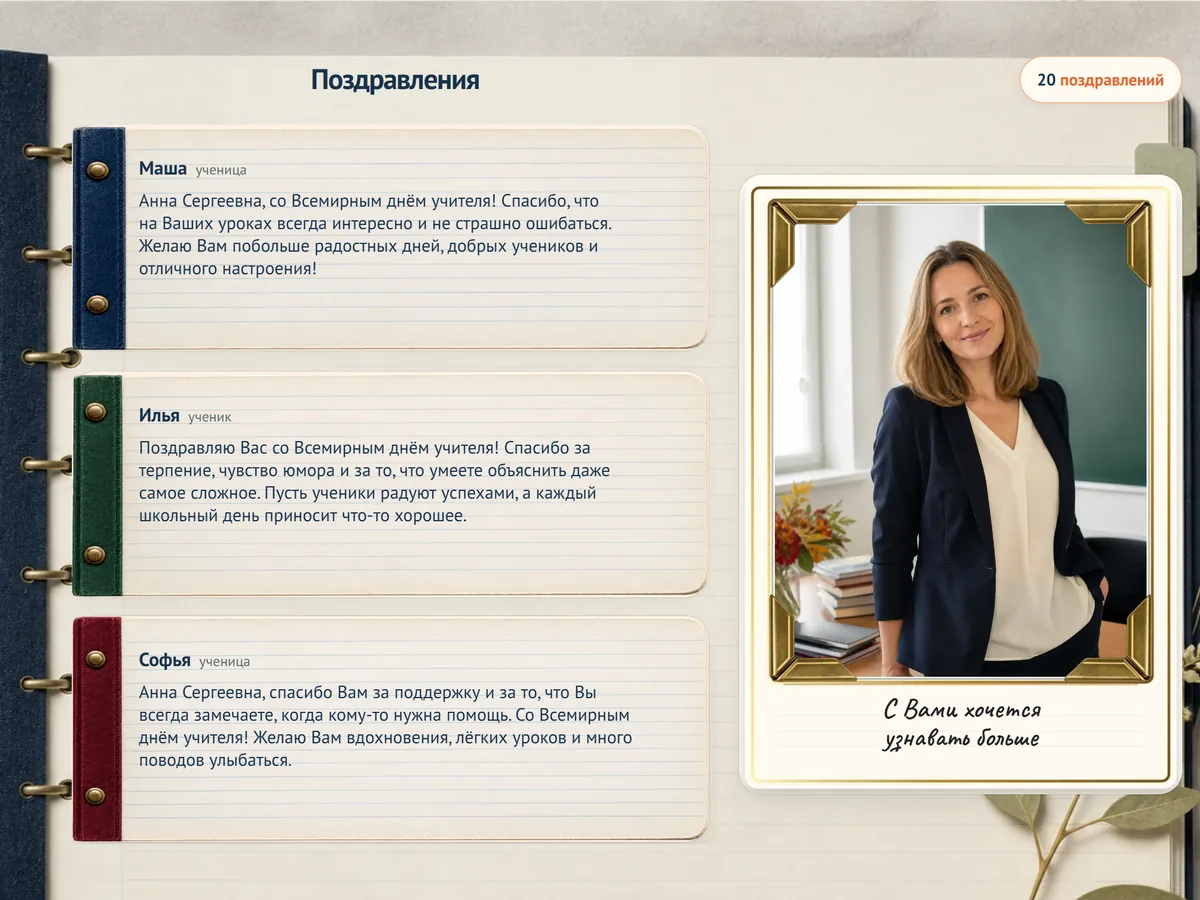
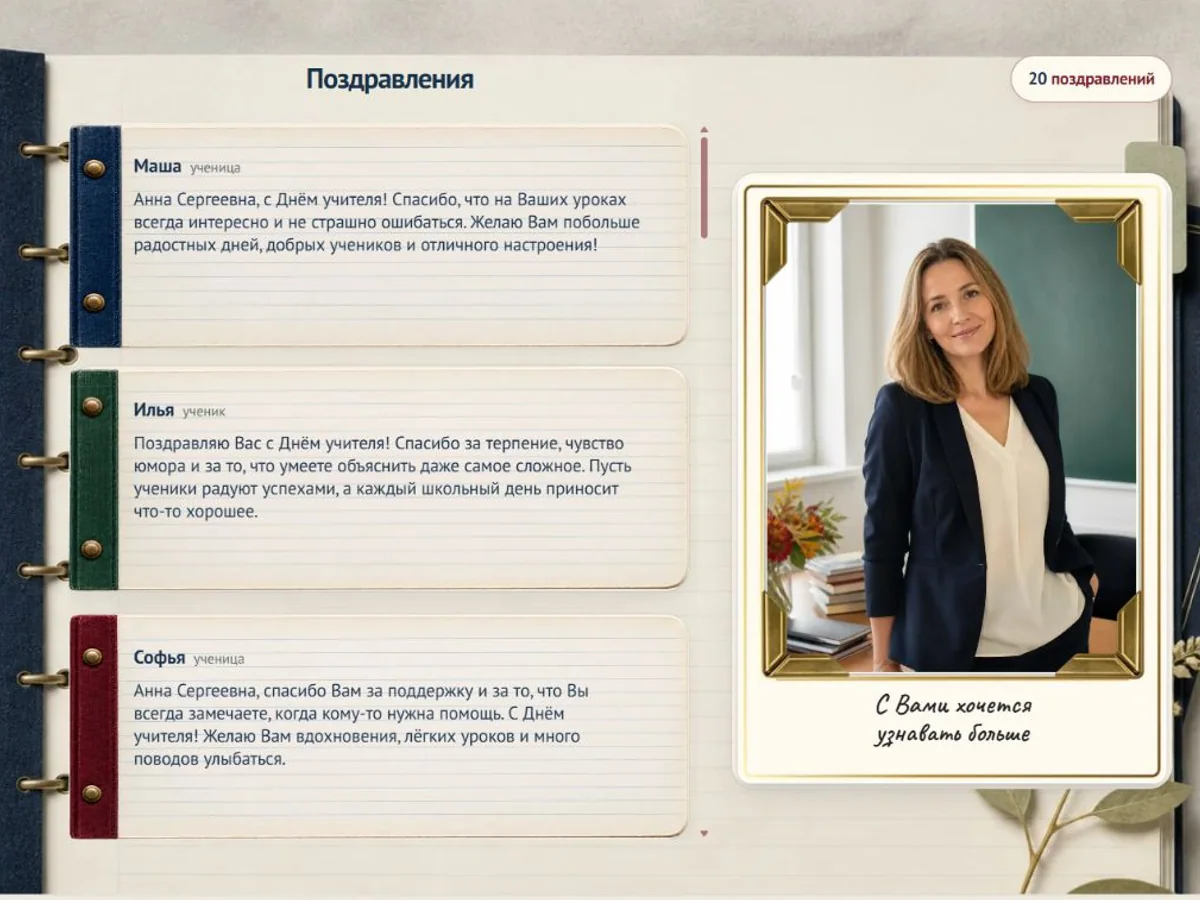
Refine teacher landing messaging and seasonality

diff --git a/src/lib/templates/fixtures.ts b/src/lib/templates/fixtures.ts
@@ -178,37 +178,37 @@ export const universalTemplateFixtures: Readonly<Record<UniversalTemplateFixture
     label: "Учителю — классический",
     description: "Анна Сергеевна, 20 поздравлений, 5 качеств, 3 лучшие фразы и 4 тематические фотографии.",
     recipientName: "Анна Сергеевна",
-    occasion: "Всемирный день учителя",
+    occasion: "День учителя",
     eventDate: "2026-10-05",
-    fromLabel: "от учеников, родителей и выпускников",
+    fromLabel: "от учеников и родителей",
     heroDescription: "Слова благодарности, школьные моменты и пожелания специально для Вас.",
     summaryTitle: "Главное поздравление",
-    mainGreetingAuthorName: "Ученики, родители и выпускники",
+    mainGreetingAuthorName: "Ученики и родители",
     mainGreeting:
-      "Анна Сергеевна, поздравляем Вас со Всемирным днём учителя! Спасибо за знания, терпение и ту особую атмосферу, в которой детям не страшно задавать вопросы, ошибаться и пробовать снова. Вы умеете замечать сильные стороны каждого, поддерживать в нужный момент и вдохновлять двигаться дальше. Пусть Ваша работа приносит радость и гордость за учеников, рядом будут благодарные дети и родители, а в жизни всегда остаётся время для себя, семьи, мечтаний и счастливых событий.",
+      "Анна Сергеевна, поздравляем Вас с Днём учителя! Спасибо за знания, терпение и ту особую атмосферу, в которой детям не страшно задавать вопросы, ошибаться и пробовать снова. Вы умеете замечать сильные стороны каждого, поддерживать в нужный момент и вдохновлять двигаться дальше. Пусть Ваша работа приносит радость и гордость за учеников, рядом будут благодарные дети и родители, а в жизни всегда остаётся время для себя, семьи, мечтаний и счастливых событий.",
     privateSignature: "С теплом и благодарностью — ученики, родители и выпускники.",
     qualities: ["внимательная", "справедливая", "терпеливая", "вдохновляющая", "мудрая"],
     contributions: [
-      { id: "teacher-message-1", authorName: "Маша", authorRole: "ученица", message: "Анна Сергеевна, со Всемирным днём учителя! Спасибо, что на Ваших уроках всегда интересно и не страшно ошибаться. Желаю Вам побольше радостных дней, добрых учеников и отличного настроения!" },
-      { id: "teacher-message-2", authorName: "Илья", authorRole: "ученик", message: "Поздравляю Вас со Всемирным днём учителя! Спасибо за терпение, чувство юмора и за то, что умеете объяснить даже самое сложное. Пусть ученики радуют успехами, а каждый школьный день приносит что-то хорошее." },
-      { id: "teacher-message-3", authorName: "Софья", authorRole: "ученица", message: "Анна Сергеевна, спасибо Вам за поддержку и за то, что Вы всегда замечаете, когда кому-то нужна помощь. Со Всемирным днём учителя! Желаю Вам вдохновения, лёгких уроков и много поводов улыбаться." },
-      { id: "teacher-message-4", authorName: "Артём", authorRole: "ученик", message: "Со Всемирным днём учителя, Анна Сергеевна! Желаю, чтобы в классе чаще звучали правильные ответы, реже забывались домашние задания, а у Вас всегда оставались силы, терпение и хорошее настроение." },
-      { id: "teacher-message-5", authorName: "Полина", authorRole: "ученица", message: "Анна Сергеевна, поздравляю со Всемирным днём учителя! Спасибо, что верите в нас даже тогда, когда мы сами сомневаемся. Желаю Вам добрых людей рядом, интересных идей и учеников, которыми можно гордиться." },
-      { id: "teacher-message-6", authorName: "Максим", authorRole: "ученик", message: "Спасибо Вам за то, что умеете сделать обычный урок интересным и всегда объясняете ещё раз, если что-то не получилось понять. Со Всемирным днём учителя! Желаю Вам радости, здоровья и отличных классов." },
-      { id: "teacher-message-7", authorName: "Лиза", authorRole: "ученица", message: "Анна Сергеевна, со Всемирным днём учителя! Пусть у Вас будет больше спокойных уроков, приятных сюрпризов и ученических побед. Спасибо за доброту, справедливость и за то, что с Вами хочется стараться." },
-      { id: "teacher-message-8", authorName: "Даниил", authorRole: "ученик", message: "Поздравляю со Всемирным днём учителя! Спасибо Вам за знания и за то, что никогда не смеётесь над нашими ошибками, а помогаете разобраться. Желаю Вам терпения, вдохновения и много счастливых дней вне школы." },
-      { id: "teacher-message-9", authorName: "Вика", authorRole: "ученица", message: "Анна Сергеевна, спасибо, что умеете быть и строгой, и доброй именно тогда, когда это нужно. Со Всемирным днём учителя! Пусть работа приносит удовольствие, а ученики чаще удивляют Вас хорошими результатами." },
-      { id: "teacher-message-10", authorName: "Кирилл", authorRole: "ученик", message: "Со Всемирным днём учителя! Желаю Вам как можно меньше проверять исправлений и как можно чаще ставить пятёрки. Спасибо за Ваше терпение, понятные объяснения и за то, что всегда можно обратиться с вопросом." },
-      { id: "teacher-message-11", authorName: "Екатерина", authorRole: "мама Маши", message: "Анна Сергеевна, поздравляем Вас со Всемирным днём учителя! Спасибо за внимание к детям, терпение и искреннюю вовлечённость. Пусть Ваш труд возвращается уважением, успехами учеников и благодарностью семей." },
-      { id: "teacher-message-12", authorName: "Алексей", authorRole: "папа Ильи", message: "Со Всемирным днём учителя, Анна Сергеевна! Спасибо за умение не только давать знания, но и поддерживать детей, учить их самостоятельности и ответственности. Желаем Вам сил, вдохновения и спокойных учебных дней." },
-      { id: "teacher-message-13", authorName: "Ольга", authorRole: "мама Софьи", message: "Анна Сергеевна, благодарим Вас за заботу, мудрость и атмосферу доверия в классе. Со Всемирным днём учителя! Пусть рядом будут понимающие родители, любознательные дети и много поводов гордиться своей работой." },
-      { id: "teacher-message-14", authorName: "Наталья", authorRole: "мама Полины", message: "Поздравляем Вас со Всемирным днём учителя! Спасибо, что видите в каждом ребёнке личность и помогаете раскрывать сильные стороны. Желаем Вам здоровья, душевного тепла, уважения и настоящей радости от результатов детей." },
-      { id: "teacher-message-15", authorName: "Сергей", authorRole: "папа Максима", message: "Анна Сергеевна, со Всемирным днём учителя! Благодарим за Ваше терпение, требовательность и поддержку. Пусть трудные задачи решаются легче, родители помогают, а ученики всё чаще радуют Вас взрослыми поступками." },
-      { id: "teacher-message-16", authorName: "Ирина", authorRole: "мама Лизы", message: "Спасибо Вам за то, что школа для наших детей — это не только оценки и задания, но и место, где их слышат и поддерживают. Со Всемирным днём учителя! Желаем Вам энергии, спокойствия и благодарных учеников." },
-      { id: "teacher-message-17", authorName: "Родители 7 «Б»", message: "Анна Сергеевна, от всего нашего класса поздравляем Вас со Всемирным днём учителя! Спасибо за терпение, справедливость и заботу о детях. Пусть учебный год будет спокойным, успешным и богатым на хорошие события." },
-      { id: "teacher-message-18", authorName: "Мария", authorRole: "мама Артёма", message: "Со Всемирным днём учителя! Спасибо Вам за уважительное отношение к детям и умение говорить с ними так, чтобы они действительно слышали. Желаем Вам вдохновения, профессиональных успехов и времени на любимые дела." },
-      { id: "teacher-message-19", authorName: "Анастасия", authorRole: "выпускница 2023 года", message: "Анна Сергеевна, со Всемирным днём учителя! Прошло уже несколько лет, а я до сих пор вспоминаю Ваши уроки и советы. Спасибо за веру в нас и требовательность, которую мы научились ценить уже после школы." },
-      { id: "teacher-message-20", authorName: "Михаил", authorRole: "выпускник 2021 года", message: "Поздравляю Вас со Всемирным днём учителя! Многие вещи, которым Вы нас учили, оказались важнее оценок и контрольных. Спасибо за честность, поддержку и умение вдохновлять. Желаю Вам новых сильных и дружных классов." }
+      { id: "teacher-message-1", authorName: "Маша", authorRole: "ученица", message: "Анна Сергеевна, с Днём учителя! Спасибо, что на Ваших уроках всегда интересно и не страшно ошибаться. Желаю Вам побольше радостных дней, добрых учеников и отличного настроения!" },
+      { id: "teacher-message-2", authorName: "Илья", authorRole: "ученик", message: "Поздравляю Вас с Днём учителя! Спасибо за терпение, чувство юмора и за то, что умеете объяснить даже самое сложное. Пусть ученики радуют успехами, а каждый школьный день приносит что-то хорошее." },
+      { id: "teacher-message-3", authorName: "Софья", authorRole: "ученица", message: "Анна Сергеевна, спасибо Вам за поддержку и за то, что Вы всегда замечаете, когда кому-то нужна помощь. С Днём учителя! Желаю Вам вдохновения, лёгких уроков и много поводов улыбаться." },
+      { id: "teacher-message-4", authorName: "Артём", authorRole: "ученик", message: "С Днём учителя, Анна Сергеевна! Желаю, чтобы в классе чаще звучали правильные ответы, реже забывались домашние задания, а у Вас всегда оставались силы, терпение и хорошее настроение." },
+      { id: "teacher-message-5", authorName: "Полина", authorRole: "ученица", message: "Анна Сергеевна, поздравляю с Днём учителя! Спасибо, что верите в нас даже тогда, когда мы сами сомневаемся. Желаю Вам добрых людей рядом, интересных идей и учеников, которыми можно гордиться." },
+      { id: "teacher-message-6", authorName: "Максим", authorRole: "ученик", message: "Спасибо Вам за то, что умеете сделать обычный урок интересным и всегда объясняете ещё раз, если что-то не получилось понять. С Днём учителя! Желаю Вам радости, здоровья и отличных классов." },
+      { id: "teacher-message-7", authorName: "Лиза", authorRole: "ученица", message: "Анна Сергеевна, с Днём учителя! Пусть у Вас будет больше спокойных уроков, приятных сюрпризов и ученических побед. Спасибо за доброту, справедливость и за то, что с Вами хочется стараться." },
+      { id: "teacher-message-8", authorName: "Даниил", authorRole: "ученик", message: "Поздравляю с Днём учителя! Спасибо Вам за знания и за то, что никогда не смеётесь над нашими ошибками, а помогаете разобраться. Желаю Вам терпения, вдохновения и много счастливых дней вне школы." },
+      { id: "teacher-message-9", authorName: "Вика", authorRole: "ученица", message: "Анна Сергеевна, спасибо, что умеете быть и строгой, и доброй именно тогда, когда это нужно. С Днём учителя! Пусть работа приносит удовольствие, а ученики чаще удивляют Вас хорошими результатами." },
+      { id: "teacher-message-10", authorName: "Кирилл", authorRole: "ученик", message: "С Днём учителя! Желаю Вам как можно меньше проверять исправлений и как можно чаще ставить пятёрки. Спасибо за Ваше терпение, понятные объяснения и за то, что всегда можно обратиться с вопросом." },
+      { id: "teacher-message-11", authorName: "Екатерина", authorRole: "мама Маши", message: "Анна Сергеевна, поздравляем Вас с Днём учителя! Спасибо за внимание к детям, терпение и искреннюю вовлечённость. Пусть Ваш труд возвращается уважением, успехами учеников и благодарностью семей." },
+      { id: "teacher-message-12", authorName: "Алексей", authorRole: "папа Ильи", message: "С Днём учителя, Анна Сергеевна! Спасибо за умение не только давать знания, но и поддерживать детей, учить их самостоятельности и ответственности. Желаем Вам сил, вдохновения и спокойных учебных дней." },
+      { id: "teacher-message-13", authorName: "Ольга", authorRole: "мама Софьи", message: "Анна Сергеевна, благодарим Вас за заботу, мудрость и атмосферу доверия в классе. С Днём учителя! Пусть рядом будут понимающие родители, любознательные дети и много поводов гордиться своей работой." },
+      { id: "teacher-message-14", authorName: "Наталья", authorRole: "мама Полины", message: "Поздравляем Вас с Днём учителя! Спасибо, что видите в каждом ребёнке личность и помогаете раскрывать сильные стороны. Желаем Вам здоровья, душевного тепла, уважения и настоящей радости от результатов детей." },
+      { id: "teacher-message-15", authorName: "Сергей", authorRole: "папа Максима", message: "Анна Сергеевна, с Днём учителя! Благодарим за Ваше терпение, требовательность и поддержку. Пусть трудные задачи решаются легче, родители помогают, а ученики всё чаще радуют Вас взрослыми поступками." },
+      { id: "teacher-message-16", authorName: "Ирина", authorRole: "мама Лизы", message: "Спасибо Вам за то, что школа для наших детей — это не только оценки и задания, но и место, где их слышат и поддерживают. С Днём учителя! Желаем Вам энергии, спокойствия и благодарных учеников." },
+      { id: "teacher-message-17", authorName: "Родители 7 «Б»", message: "Анна Сергеевна, от всего нашего класса поздравляем Вас с Днём учителя! Спасибо за терпение, справедливость и заботу о детях. Пусть учебный год будет спокойным, успешным и богатым на хорошие события." },
+      { id: "teacher-message-18", authorName: "Мария", authorRole: "мама Артёма", message: "С Днём учителя! Спасибо Вам за уважительное отношение к детям и умение говорить с ними так, чтобы они действительно слышали. Желаем Вам вдохновения, профессиональных успехов и времени на любимые дела." },
+      { id: "teacher-message-19", authorName: "Анастасия", authorRole: "выпускница 2023 года", message: "Анна Сергеевна, с Днём учителя! Прошло уже несколько лет, а я до сих пор вспоминаю Ваши уроки и советы. Спасибо за веру в нас и требовательность, которую мы научились ценить уже после школы." },
+      { id: "teacher-message-20", authorName: "Михаил", authorRole: "выпускник 2021 года", message: "Поздравляю Вас с Днём учителя! Многие вещи, которым Вы нас учили, оказались важнее оценок и контрольных. Спасибо за честность, поддержку и умение вдохновлять. Желаю Вам новых сильных и дружных классов." }
     ],
     quoteCandidates: [
       { id: "teacher-quote-1", text: "С Вами хочется стараться." },

diff --git a/src/app/gruppovaya-otkrytka/uchitelyu/teacher-landing-content.ts b/src/app/gruppovaya-otkrytka/uchitelyu/teacher-landing-content.ts
@@ -1,12 +1,12 @@
 import type { FaqItem } from "@/app/_home/faq-section";
 
-/* Единая демо-история страницы: открытка Анне Сергеевне ко Всемирному дню учителя,
+/* Единая демо-история страницы: открытка Анне Сергеевне ко Дню учителя,
    20 поздравлений и 4 фотографии от учеников, родителей и выпускников. */
 export const teacherDemoStory = {
   recipient: "Анна Сергеевна",
   recipientDative: "Анне Сергеевне",
   recipientGenitive: "Анны Сергеевны",
-  occasion: "Всемирный день учителя",
+  occasion: "День учителя",
   stats: "20 поздравлений · 4 фото"
 } as const;
 
@@ -25,13 +25,61 @@ export const teacherCardContents = [
   { title: "Цельное оформление", text: "Всё становится одной открыткой, а не списком сообщений в чате." }
 ] as const;
 
-/* Сезонная заметка в hero: сейчас — к 1 сентября. Чтобы позже перейти на День учителя,
-   достаточно заменить значения этого объекта, не трогая разметку секции. */
-export const teacherHeroNote = {
+export type TeacherHeroNote = {
+  title: string;
+  text: string;
+  markers: readonly string[];
+};
+
+const septemberHeroNote: TeacherHeroNote = {
   title: "Успейте к 1 сентября",
   text: "Создайте открытку сейчас, отправьте одну ссылку в чат класса и собирайте пожелания постепенно. Участникам не нужна регистрация, а готовую открытку можно посмотреть заранее.",
   markers: ["День учителя", "Последний звонок", "Выпускной"]
-} as const;
+};
+
+const teacherDayHeroNote: TeacherHeroNote = {
+  title: "Соберите открытку ко Дню учителя",
+  text: "Создайте открытку сейчас, отправьте одну ссылку в чат класса и соберите личные слова к 5 октября. Участникам не нужна регистрация, а готовую открытку можно посмотреть заранее.",
+  markers: ["5 октября", "Последний звонок", "Выпускной"]
+};
+
+const evergreenHeroNote: TeacherHeroNote = {
+  title: "Скажите учителю спасибо всем классом",
+  text: "Создайте открытку сейчас, отправьте одну ссылку в чат класса и собирайте пожелания постепенно. Участникам не нужна регистрация, а готовую открытку можно посмотреть заранее.",
+  markers: ["1 сентября", "День учителя", "Выпускной"]
+};
+
+const teacherLandingTimeZone = "Asia/Yekaterinburg";
+
+const getLocalMonthDay = (date: Date) => {
+  const parts = new Intl.DateTimeFormat("en-US", {
+    timeZone: teacherLandingTimeZone,
+    month: "2-digit",
+    day: "2-digit"
+  }).formatToParts(date);
+  const month = parts.find((part) => part.type === "month")?.value;
+  const day = parts.find((part) => part.type === "day")?.value;
+
+  if (!month || !day) {
+    throw new Error("Не удалось определить локальную дату сезонного блока");
+  }
+
+  return `${month}-${day}`;
+};
+
+export const getTeacherHeroNote = (date = new Date()): TeacherHeroNote => {
+  const monthDay = getLocalMonthDay(date);
+
+  if (monthDay >= "07-01" && monthDay <= "09-01") {
+    return septemberHeroNote;
+  }
+
+  if (monthDay >= "09-02" && monthDay <= "10-05") {
+    return teacherDayHeroNote;
+  }
+
+  return evergreenHeroNote;
+};
 
 export const teacherOccasionScenarios = [
   { title: "1 сентября", text: "Пожелания учителю и классному руководителю к началу учебного года." },

diff --git a/src/app/gruppovaya-otkrytka/uchitelyu/page.tsx b/src/app/gruppovaya-otkrytka/uchitelyu/page.tsx
@@ -7,7 +7,7 @@ import {
   teacherCardContents,
   teacherDemoStory,
   teacherFaqs,
-  teacherHeroNote,
+  getTeacherHeroNote,
   teacherOccasionScenarios,
   teacherOccasionsCompact,
   teacherSteps
@@ -20,6 +20,8 @@ const landingPath = "/gruppovaya-otkrytka/uchitelyu";
 const landingUrl = `https://slovesto.ru${landingPath}`;
 const title = "Групповая онлайн-открытка учителю от класса — Slovesto";
 const description = "Соберите поздравления учеников и родителей по одной ссылке, добавьте фотографии класса и подарите учителю общую онлайн-открытку. Создание бесплатно, передача — 399 ₽.";
+
+export const revalidate = 3600;
 
 export const metadata: Metadata = {
   title: { absolute: title },
@@ -92,13 +94,13 @@ const envelopeIcon = (
   <svg viewBox="0 0 24 24" fill="none" stroke="currentColor" strokeWidth="1.8" strokeLinecap="round" strokeLinejoin="round" aria-hidden="true"><rect x="3" y="6" width="18" height="13" rx="2" /><path d="m3.5 7.5 8.5 6 8.5-6" /></svg>
 );
 
-const heroNoteClasses = [styles.heroNoteStudent, styles.heroNoteParent, styles.heroNoteGraduate];
+const heroNoteClasses = [styles.heroNoteStudent, styles.heroNoteParent, styles.heroNoteStudentSecond];
 
-/* Короткие фрагменты из текстов ученика, родителя и выпускника — только для hero */
+/* Короткие фрагменты учеников и родителя — только для сфокусированного hero */
 const heroNotes = [
   { role: "Ученик", text: "Помогаете не бояться сложных задач" },
   { role: "Родитель", text: "Спасибо за внимание к детям" },
-  { role: "Выпускник", text: "До сих пор вспоминаю ваши уроки" }
+  { role: "Ученица", text: "С Вами хочется стараться" }
 ] as const;
 
 type ChatFragment =
@@ -123,6 +125,8 @@ const participantFlows = [
 ] as const;
 
 export default function TeacherLandingPage() {
+  const teacherHeroNote = getTeacherHeroNote();
+
   return (
     <div className={styles.page} data-teacher-landing>
       <TeacherLandingTracker />
@@ -144,9 +148,9 @@ export default function TeacherLandingPage() {
         <section className={`${styles.section} ${styles.hero}`} aria-labelledby="teacher-landing-title">
           <div className={`${styles.shell} ${styles.heroGrid}`}>
             <div className={styles.heroCopy}>
-              <p className={styles.eyebrow}>Открытка от учеников, родителей и выпускников</p>
+              <p className={styles.eyebrow}>Открытка от учеников и родителей</p>
               <h1 id="teacher-landing-title">Групповая онлайн&#8209;открытка учителю от всего класса</h1>
-              <p className={styles.heroText}>Соберите личные поздравления учеников, родителей и выпускников по одной ссылке, добавьте фотографии класса и превратите всё в одну красивую открытку для учителя.</p>
+              <p className={styles.heroText}>Соберите личные поздравления учеников и родителей по одной ссылке, добавьте фотографии класса и превратите всё в одну красивую открытку для учителя.</p>
               <div className={styles.heroActions}>
                 <TeacherCreateForm placement="hero" buttonClassName={styles.primaryButton}>Собрать открытку учителю</TeacherCreateForm>
                 <TeacherExampleLink className={styles.secondaryButton}>Посмотреть пример</TeacherExampleLink>

diff --git a/src/app/example/example-experience.tsx b/src/app/example/example-experience.tsx
@@ -29,13 +29,6 @@ const demoSteps: { id: DemoStepId; label: string }[] = [
   { id: "recipient_view", label: "Результат" }
 ];
 
-const heroChips = [
-  { text: "от друзей и коллег", icon: "people" as const },
-  { text: "С днём рождения!", icon: "cake" as const },
-  { text: "6 поздравлений", icon: "heart" as const },
-  { text: "до 280 символов", icon: "pencil" as const }
-];
-
 const previewFeatures = [
   "поздравления от участников",
   "фотографии и моменты",
@@ -109,7 +102,6 @@ export const ExampleExperience = ({ children, routeChildren, schoolChildren, sch
 
   // Hero.
   const heroVisual = useScrollReveal<HTMLDivElement>({ variant: "slide-right", duration: 720, delay: 180 });
-  const heroChipsReveal = useScrollReveal<HTMLDivElement>({ variant: "stagger", delay: 320, step: 60 });
 
   // Animation block columns.
   const animationAsset = useScrollReveal<HTMLDivElement>({ variant: "slide-left", duration: 560 });
@@ -257,14 +249,6 @@ export const ExampleExperience = ({ children, routeChildren, schoolChildren, sch
                 </form>
               </div>
             </ScrollReveal>
-            <div {...heroChipsReveal} className={styles.heroChips}>
-              {heroChips.map((chip) => (
-                <span key={chip.text} className={styles.heroChip}>
-                  <ChipIcon name={chip.icon} />
-                  {chip.text}
-                </span>
-              ))}
-            </div>
           </div>
 
           <div {...heroVisual} className={styles.heroVisual} aria-hidden="true">
@@ -573,42 +557,3 @@ export const ExampleExperience = ({ children, routeChildren, schoolChildren, sch
     </main>
   );
 };
-
-function ChipIcon({ name }: { name: "people" | "cake" | "heart" | "pencil" }) {
-  if (name === "people") {
-    return (
-      <svg width="18" height="18" viewBox="0 0 24 24" fill="none" aria-hidden="true">
-        <circle cx="9" cy="8" r="3.5" stroke="currentColor" strokeWidth="1.6" />
-        <circle cx="17" cy="9" r="2.8" stroke="currentColor" strokeWidth="1.6" />
-        <path d="M3 19c0-2.8 2.5-5 6-5s6 2.2 6 5" stroke="currentColor" strokeWidth="1.6" strokeLinecap="round" />
-        <path d="M15 17.5c0-2.2 1.8-4 4-4s4 1.8 4 4" stroke="currentColor" strokeWidth="1.6" strokeLinecap="round" />
-      </svg>
-    );
-  }
-
-  if (name === "cake") {
-    return (
-      <svg width="18" height="18" viewBox="0 0 24 24" fill="none" aria-hidden="true">
-        <path d="M4 16h16v4a2 2 0 01-2 2H6a2 2 0 01-2-2v-4z" stroke="currentColor" strokeWidth="1.6" strokeLinejoin="round" />
-        <path d="M4 16l3-3 3 3 4-4 3 3 3-3" stroke="currentColor" strokeWidth="1.6" strokeLinejoin="round" />
-        <path d="M12 7v3m0-3c0-1.5 2-2 2-3" stroke="currentColor" strokeWidth="1.6" strokeLinecap="round" />
-        <path d="M12 7c0-1.5 2-2 2-3" stroke="currentColor" strokeWidth="1.6" strokeLinecap="round" />
-      </svg>
-    );
-  }
-
-  if (name === "heart") {
-    return (
-      <svg width="18" height="18" viewBox="0 0 24 24" fill="currentColor" aria-hidden="true">
-        <path d="M12 21.35l-1.45-1.32C5.4 15.36 2 12.28 2 8.5 2 5.42 4.42 3 7.5 3c1.74 0 3.41.81 4.5 2.09C13.09 3.81 14.76 3 16.5 3 19.58 3 22 5.42 22 8.5c0 3.78-3.4 6.86-8.55 11.54L12 21.35z" />
-      </svg>
-    );
-  }
-
-  return (
-    <svg width="18" height="18" viewBox="0 0 24 24" fill="none" aria-hidden="true">
-      <path d="M12 3v12m0 0l-4-4m4 4l4-4" stroke="currentColor" strokeWidth="1.6" strokeLinecap="round" strokeLinejoin="round" />
-      <path d="M4 21h16" stroke="currentColor" strokeWidth="1.6" strokeLinecap="round" />
-    </svg>
-  );
-}

diff --git a/src/app/gruppovaya-otkrytka/uchitelyu/teacher-landing-content.test.ts b/src/app/gruppovaya-otkrytka/uchitelyu/teacher-landing-content.test.ts
@@ -1,0 +1,27 @@
+import { describe, expect, it } from "vitest";
+import { getTeacherHeroNote } from "./teacher-landing-content";
+
+describe("getTeacherHeroNote", () => {
+  it("показывает 1 сентября до конца 1 сентября по Екатеринбургу", () => {
+    expect(getTeacherHeroNote(new Date("2026-09-01T18:59:59.000Z")).title).toBe("Успейте к 1 сентября");
+  });
+
+  it("переключается на День учителя в начале 2 сентября по Екатеринбургу", () => {
+    const note = getTeacherHeroNote(new Date("2026-09-01T19:00:00.000Z"));
+
+    expect(note.title).toBe("Соберите открытку ко Дню учителя");
+    expect(note.text).toContain("к 5 октября");
+  });
+
+  it("сохраняет День учителя до конца 5 октября по Екатеринбургу", () => {
+    expect(getTeacherHeroNote(new Date("2026-10-05T18:59:59.000Z")).title).toBe("Соберите открытку ко Дню учителя");
+  });
+
+  it("после 5 октября возвращается к вечнозелённому обещанию", () => {
+    expect(getTeacherHeroNote(new Date("2026-10-05T19:00:00.000Z")).title).toBe("Скажите учителю спасибо всем классом");
+  });
+
+  it("начинает сезон 1 сентября с 1 июля", () => {
+    expect(getTeacherHeroNote(new Date("2026-06-30T19:00:00.000Z")).title).toBe("Успейте к 1 сентября");
+  });
+});

diff --git a/src/app/example/example.module.css b/src/app/example/example.module.css
@@ -198,35 +198,6 @@
   display: contents;
 }
 
-.heroChips {
-  display: flex;
-  flex-wrap: nowrap;
-  gap: 10px;
-  margin-top: 26px;
-}
-
-.heroChip {
-  display: inline-flex;
-  align-items: center;
-  gap: 7px;
-  min-height: 36px;
-  padding: 0 12px;
-  border-radius: 999px;
-  color: var(--ex-text-soft);
-  background: rgba(255, 255, 255, 0.72);
-  box-shadow:
-    0 6px 18px rgba(89, 52, 35, 0.06),
-    inset 0 0 0 1px var(--ex-line);
-  font-size: 12px;
-  font-weight: 700;
-  white-space: nowrap;
-}
-
-.heroChip svg {
-  flex: 0 0 auto;
-  color: var(--ex-accent);
-}
-
 /* Hero visual */
 .heroVisual {
   display: grid;
@@ -960,11 +931,6 @@
     justify-content: center;
   }
 
-  .heroChips {
-    flex-wrap: wrap;
-    justify-content: center;
-  }
-
   .heroVisual {
     min-height: auto;
   }
@@ -1066,16 +1032,6 @@
   .secondaryButton {
     width: 100%;
     white-space: normal;
-  }
-
-  .heroChips {
-    justify-content: center;
-    flex-wrap: wrap;
-  }
-
-  .heroChip {
-    font-size: 11px;
-    padding: 0 10px;
   }
 
   .block {

diff --git a/src/app/gruppovaya-otkrytka/uchitelyu/page.module.css b/src/app/gruppovaya-otkrytka/uchitelyu/page.module.css
@@ -363,7 +363,7 @@
   max-width: 176px;
 }
 
-.heroNoteGraduate {
+.heroNoteStudentSecond {
   --tilt: 1.2deg;
   --tilt-hover: 0.8deg;
   top: 4px;
@@ -1212,7 +1212,7 @@
     font-size: 0.76rem;
   }
 
-  .heroNoteGraduate {
+  .heroNoteStudentSecond {
     display: none;
   }
 
